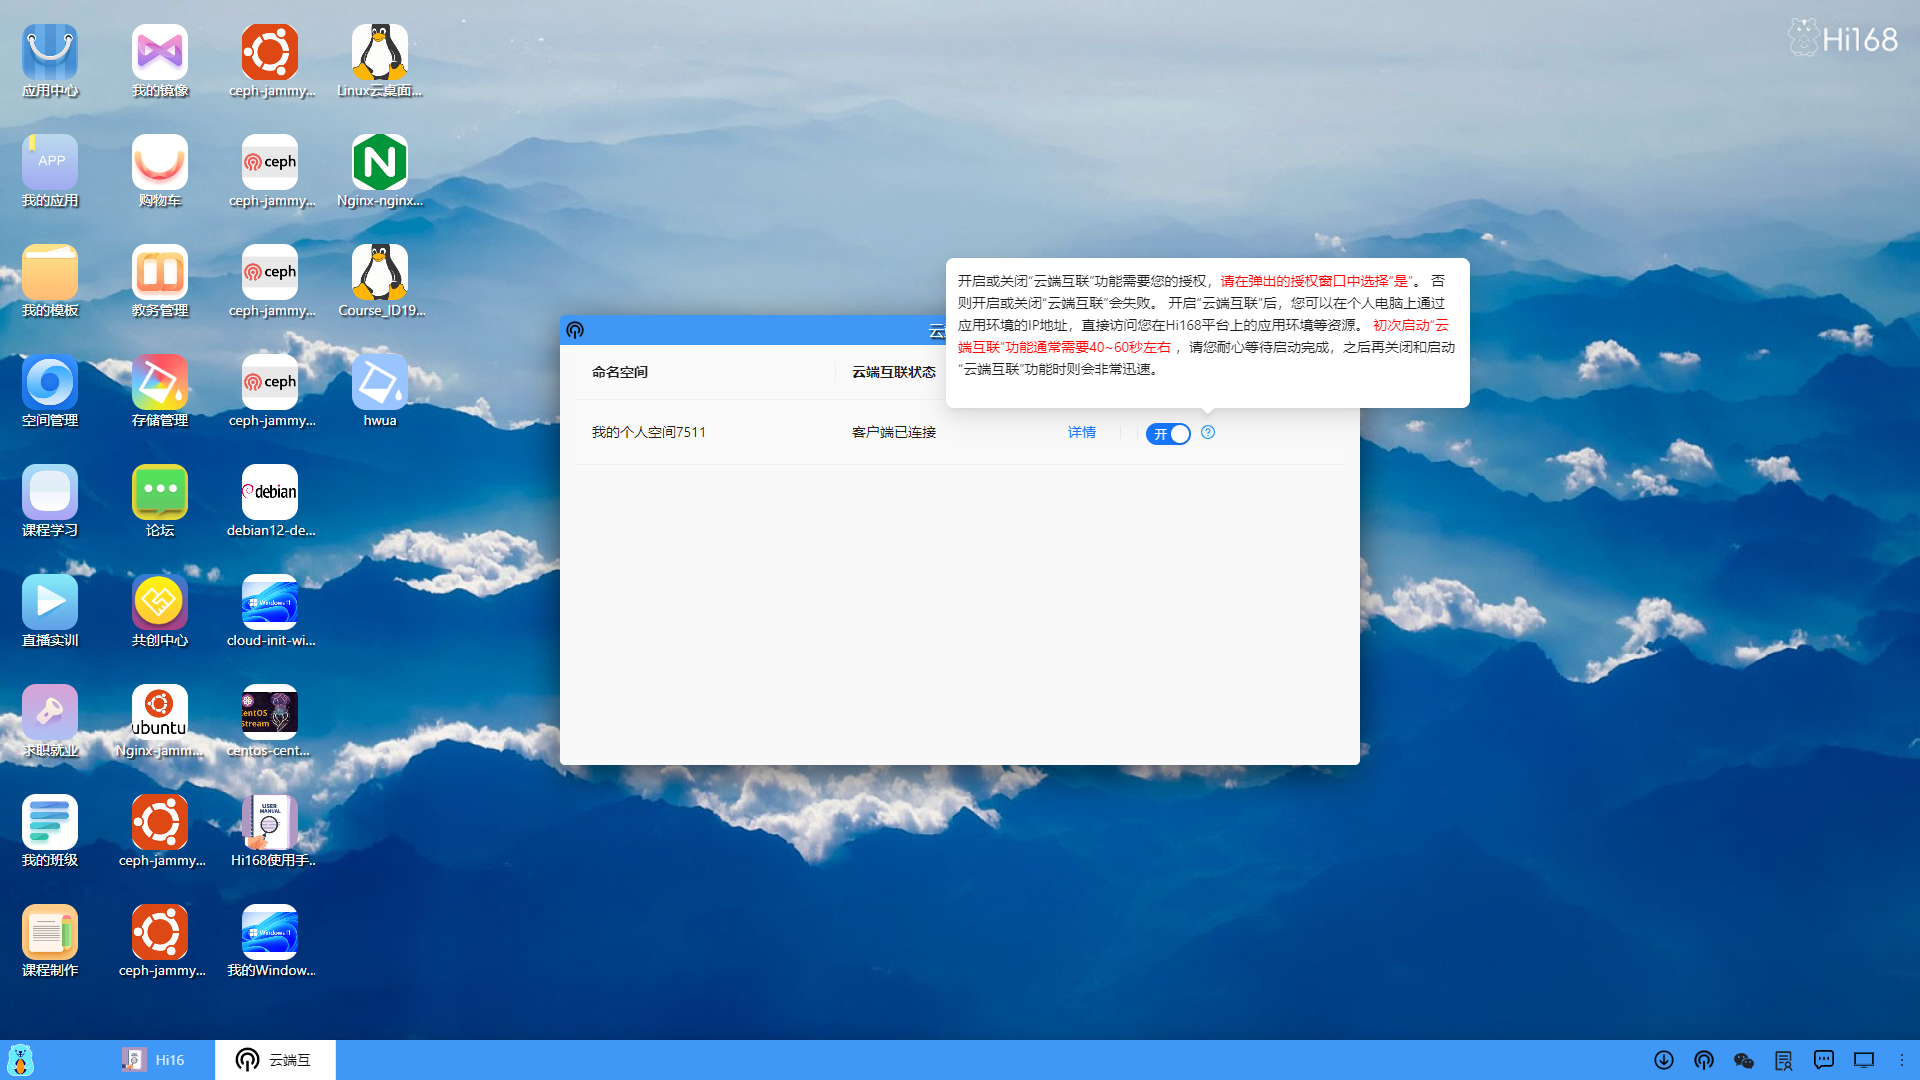
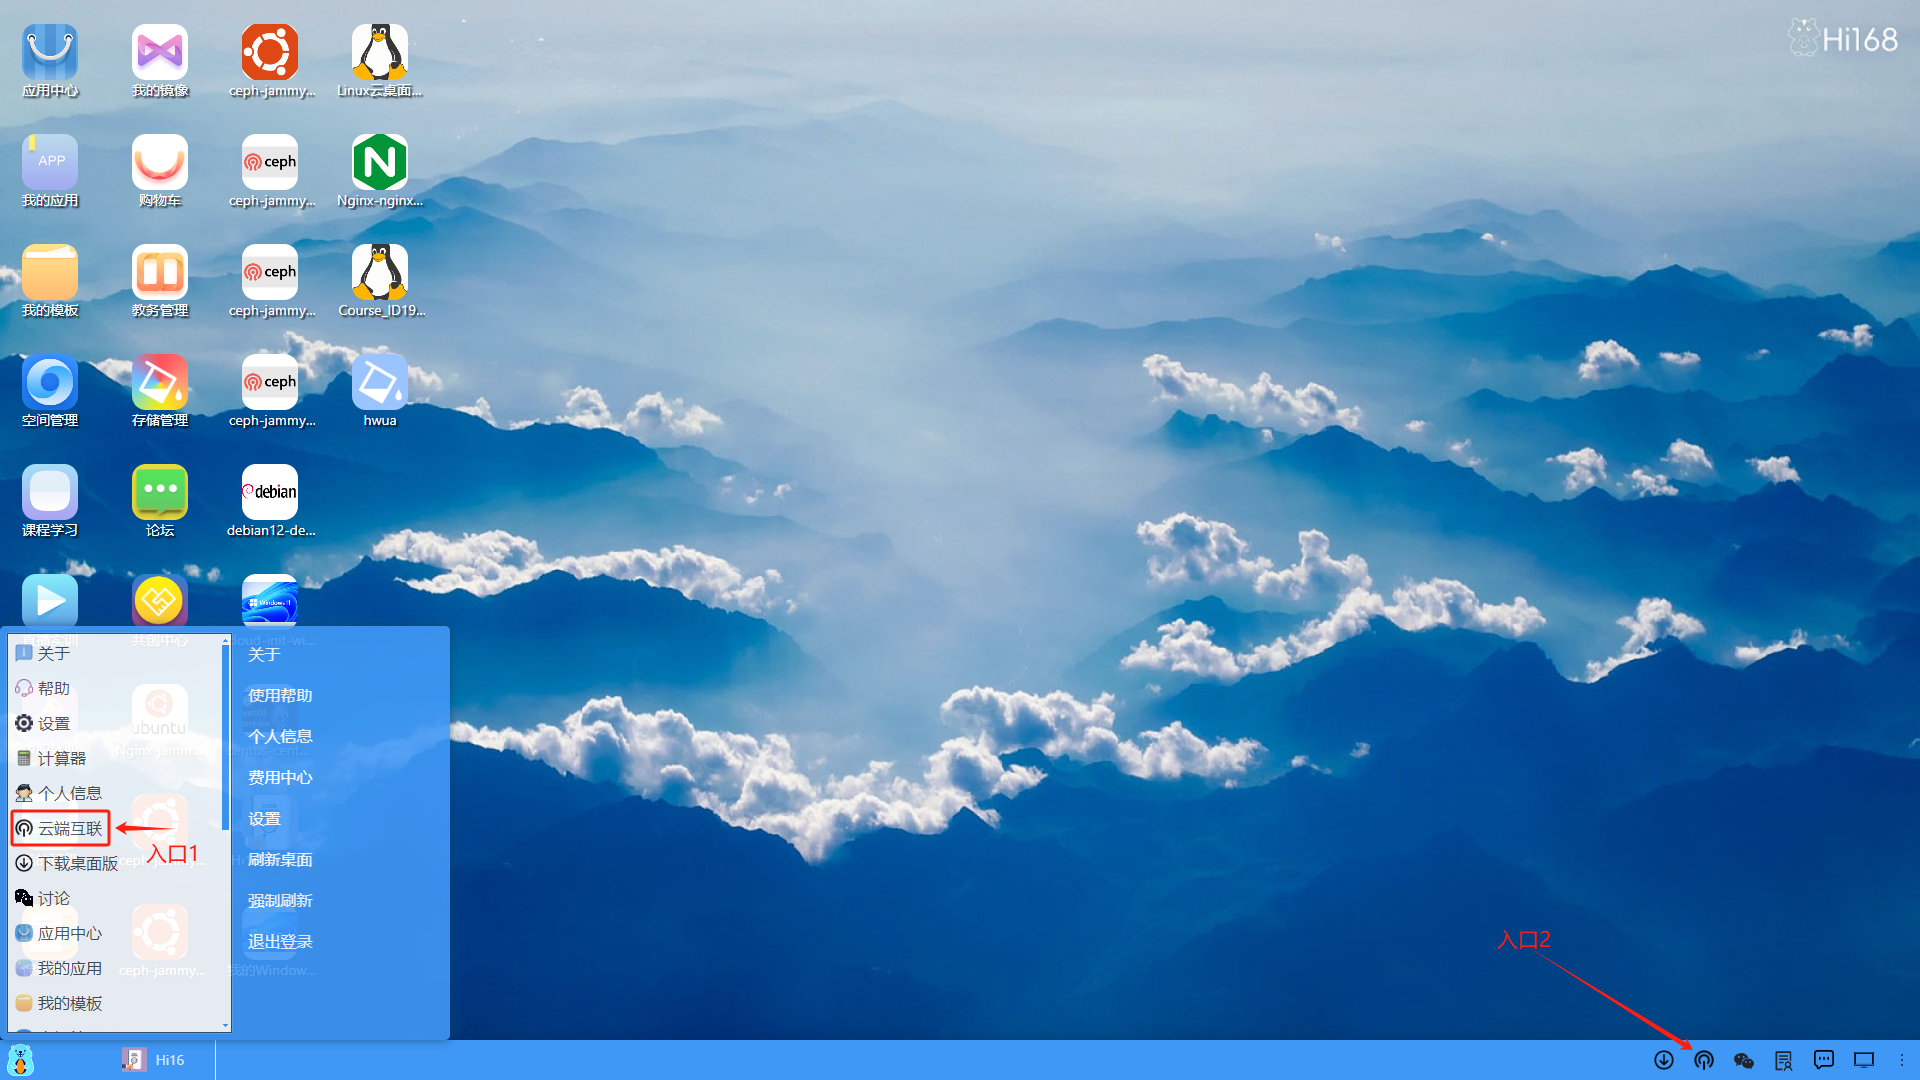
jack

Changed region(s): [[0.2812, 0.2139, 0.7812, 0.7333], [0.0, 0.55, 0.25, 1.0], [0.7812, 0.8556, 0.8125, 0.8861]]

diff --git a/manual/05/single_client.md b/manual/05/single_client.md
@@ -1,0 +1,85 @@
+### 单客户端
+大部分用户基本采用本地的Windows或Mac操作系统作为客户端进行云端互联，这里我们以Windows为例，介绍一下云端互联的流程。
+#### 1、打开云端互联
+我们点击进入云端互联，弹出一个通知，提示云端互联的网段重新规划了一下，提示在2025年5月30日之前使用的云端互联会有影响，这里建议先删除原有的客户端，全部清空，保持下图的初始状态。
+
+![alt text](image.png)
+
+#### 2、开通云端互联
+（1）点击"开通云端互联"，需要等待40~60秒左右的时间。
+
+![alt text](image-1.png)
+
+（2）开通成功后，云端互联状态显示"云端网关已就绪"，并自动分配了云端互联的网段。同时，在云端互联客户端列表中，自动增加了一条客户端记录，信息包括客户端名称、客户端地址、允许IP和动作。其中，客户端地址是系统自动分配的IP，用于客户端去连接云端的虚拟机，允许IP是允许通过的指定网段流量，可以有多个，在同一个个人空间中，我们使用默认的，不用去编辑修改的。
+
+![alt text](image-2.png)
+
+（3）下载WireGuard
+
+我们先点击"详情"，再点击"下载WireGuard客户端"，选择对应的操作系统版本，即可下载WireGuard的安装包，这里我们以Windows为例。
+
+![alt text](image-3.png)
+
+（4）安装WireGuard
+
+正常下载下来的"wireguard-installer.exe"安装包，进行安装即可。
+
+![alt text](image-4.png)
+
+安装成功且运行的WireGuard界面。
+
+![alt text](image-5.png)
+
+（5）下载WireGuard配置文件
+
+使用WireGuard云端互联，必须要导入配置文件，我们先将配置文件下载下来。
+
+<li>方式一：直接点击"下载"，将文件类型为conf的配置文件下载到本地（第二次以后下载可以一直使用此种方式）。</li>
+
+![alt text](image-6.png)
+
+<li>方式二：先点击"详情"，再点击"下载WireGuard配置文件"，保存到本地即可。</li>
+
+![alt text](image-7.png)
+
+（6）WireGuard导入配置文件
+
+<li>方式一：点击"从文件导入隧道"。</li>
+
+![alt text](image-8.png)
+
+找到下载的配置文件，点击"打开"导入即可。
+
+![alt text](image-9.png)
+
+成功导入配置文件。
+
+![alt text](image-10.png)
+
+<li>方式二：点击"新建隧道"导入配置文件</li>
+
+![alt text](image-11.png)
+
+（7）本地连接云端的虚拟机
+
+我们先打开本地的命令终端，去ping一个云端虚拟机的IP，当前是无法ping通的，也是就无法进行云端互联。
+
+![alt text](image-12.png)
+
+（8）WireGuard进行连接
+
+我们点击"连接"，既可连接上云端的网关。 
+
+![alt text](image-13.png)
+
+WireGuard提示已连接。
+
+![alt text](image-14.png)
+
+此时就可以ping通云端虚拟机的IP了，表示云端互联成功了。
+
+![alt text](image-15.png)
+
+
+
+

diff --git a/manual/hi168_CloudInterconnection.md b/manual/hi168_CloudInterconnection.md
@@ -4,10 +4,33 @@ Hi168平台为了让云端虚拟机和本地环境彻底打通，建立一个VPN
 
 **<li>本地与云端无缝集成</li>**
 
-**<li>ping通云端虚拟机</li>**
-
 **<li>本地无需安装虚拟机</li>**
 
 **<li>低配置使用高端集群</li>**
 
+**<li>平替Vmware和Virtualbox</li>**
+
 ![alt text](./05/cloudinterconnection.png)
+
+#### WireGuard介绍
+
+使用云端互联需要WireGuard软件，可以帮助用户在本地和云端建立一个虚拟的VPN隧道。下面先来了解一下WireGuard。
+WireGuard  是一个快速、现代且安全的虚拟私人网络（VPN）协议，旨在替代传统的 IPsec 和 OpenVPN 。它利用最先进的加密技术，提供比传统VPN更高的性能和更简单的配置。
+WireGuard由 Jason A. Donenfeld 创建并维护。它最初是为 Linux 内核设计的，现已跨平台支持 Windows 、 MacOS 、 BSD 、 iOS 和 Android 等操作系统。WireGuard的核心代码仅四千多
+行，被 Linux之父 Linus Torvalds 称为“艺术品”。主要特点如下：
+<li>高性能：WireGuard使用极高速的加密原语，适用于需要高速连接的场景，如远程工作、游戏和视频会议等。</li>
+
+<li>安全性：它采用先进的加密技术，如 ChaCha20 、 Poly1305 和 BLAKE2 ，确保数据传输的安全性。</li>
+
+<li>易用性：配置简单，类似于交换SSH密钥的过程。用户只需交换公钥即可建立连接，无需管理连接或关注状态。</li>
+
+<li>跨平台支持：可以在多种操作系统上运行，适用于不同的设备和场景。</li>
+
+<li>轻便和高效：以UDP协议传输数据，资源占用小，适合嵌入式设备和移动设备。</li>
+
+![alt text](./05/cloudinterconnection01.png)
+
+
+#### 两种进入云端互联的方式
+
+![alt text](./05/cloudinterconnection02.png)

diff --git a/_sidebar.md b/_sidebar.md
@@ -24,8 +24,8 @@
     * [1、个人空间](./manual/04/personal_space.md)
     * [2、新建空间](./manual/04/create_space.md)
 * [五、云端互联](./manual/hi168_CloudInterconnection.md)
-    * [1、默认方式](./manual/05/default.md)
-    * [2、下载互联工具](./manual/05/download.md)
+    * [1、单客户端](./manual/05/single_client.md)
+    * [2、多客户端](./manual/05/multi_client.md)
 * [六、存储管理](./manual/hi168_StorageBucket.md)
     * [1、存储桶列表](./manual/06/storage_bucket_list.md)
     * [2、新建存储桶](./manual/06/create_storage_bucket.md)
